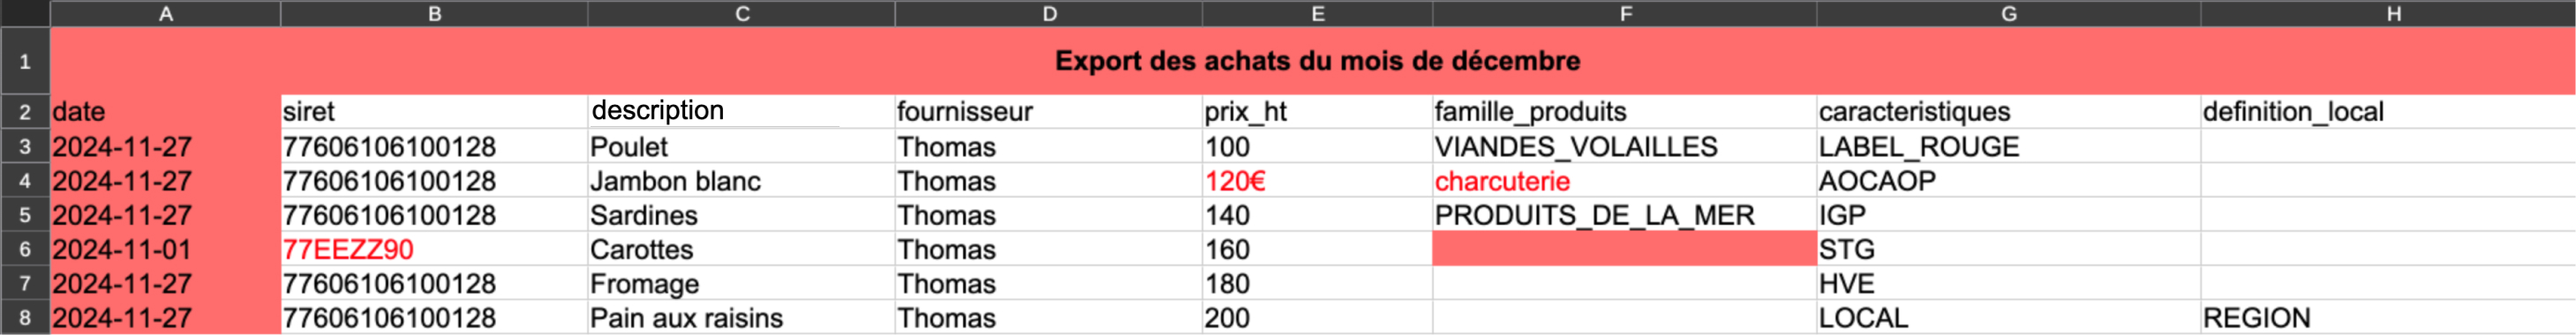
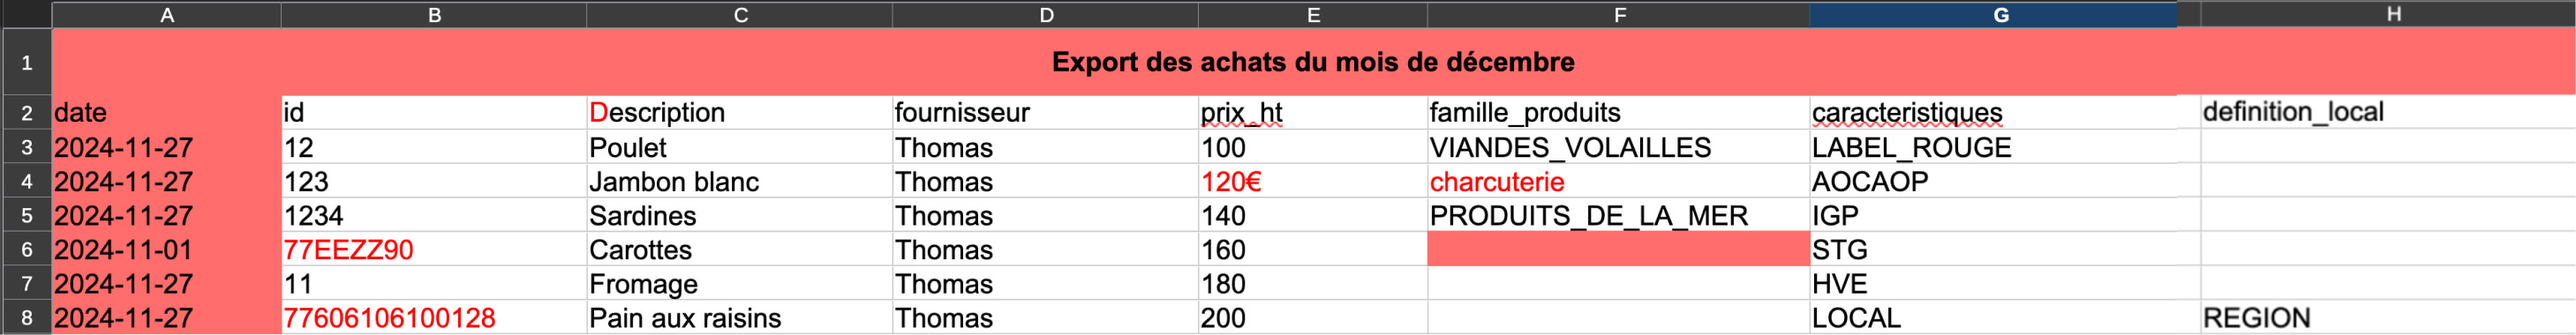
Mise à jour des fichiers d'exemples photos

diff --git a/2024-frontend/src/views/GestionnaireImportAchatsSIRET.vue b/2024-frontend/src/views/GestionnaireImportAchatsSIRET.vue
@@ -19,9 +19,9 @@ const exampleFile = {
   size: "190 octets",
 }
 const filePreviews = {
-  success: "achats_fichier_exemple_fichier_accepte.jpg?v=1",
+  success: "achats_siret_fichier_exemple_fichier_accepte.jpg?v=1",
   altSuccess: "Exemple de fichier accepté pour importer des achats, qui contient le bon nom de colonnes et les bonnes valeurs",
-  error: "achats_fichier_exemple_fichier_rejete.jpg?v=2",
+  error: "achats_siret_fichier_exemple_fichier_rejete.jpg?v=1",
   altError: "Exemple de fichier rejeté pour importer des achats, qui contient des erreurs dans les colonnes ou les valeurs",
 }
 const links = [

diff --git a/2024-frontend/src/views/GestionnaireImportAchats.vue b/2024-frontend/src/views/GestionnaireImportAchats.vue
@@ -19,9 +19,9 @@ const exampleFile = {
   size: "176 octets",
 }
 const filePreviews = {
-  success: "achats_fichier_exemple_fichier_accepte.jpg?v=1",
+  success: "achats_fichier_exemple_fichier_accepte.jpg?v=3",
   altSuccess: "Exemple de fichier accepté pour importer des achats, qui contient le bon nom de colonnes et les bonnes valeurs",
-  error: "achats_fichier_exemple_fichier_rejete.jpg?v=2",
+  error: "achats_fichier_exemple_fichier_rejete.jpg?v=3",
   altError: "Exemple de fichier rejeté pour importer des achats, qui contient des erreurs dans les colonnes ou les valeurs",
 }
 const links = [
